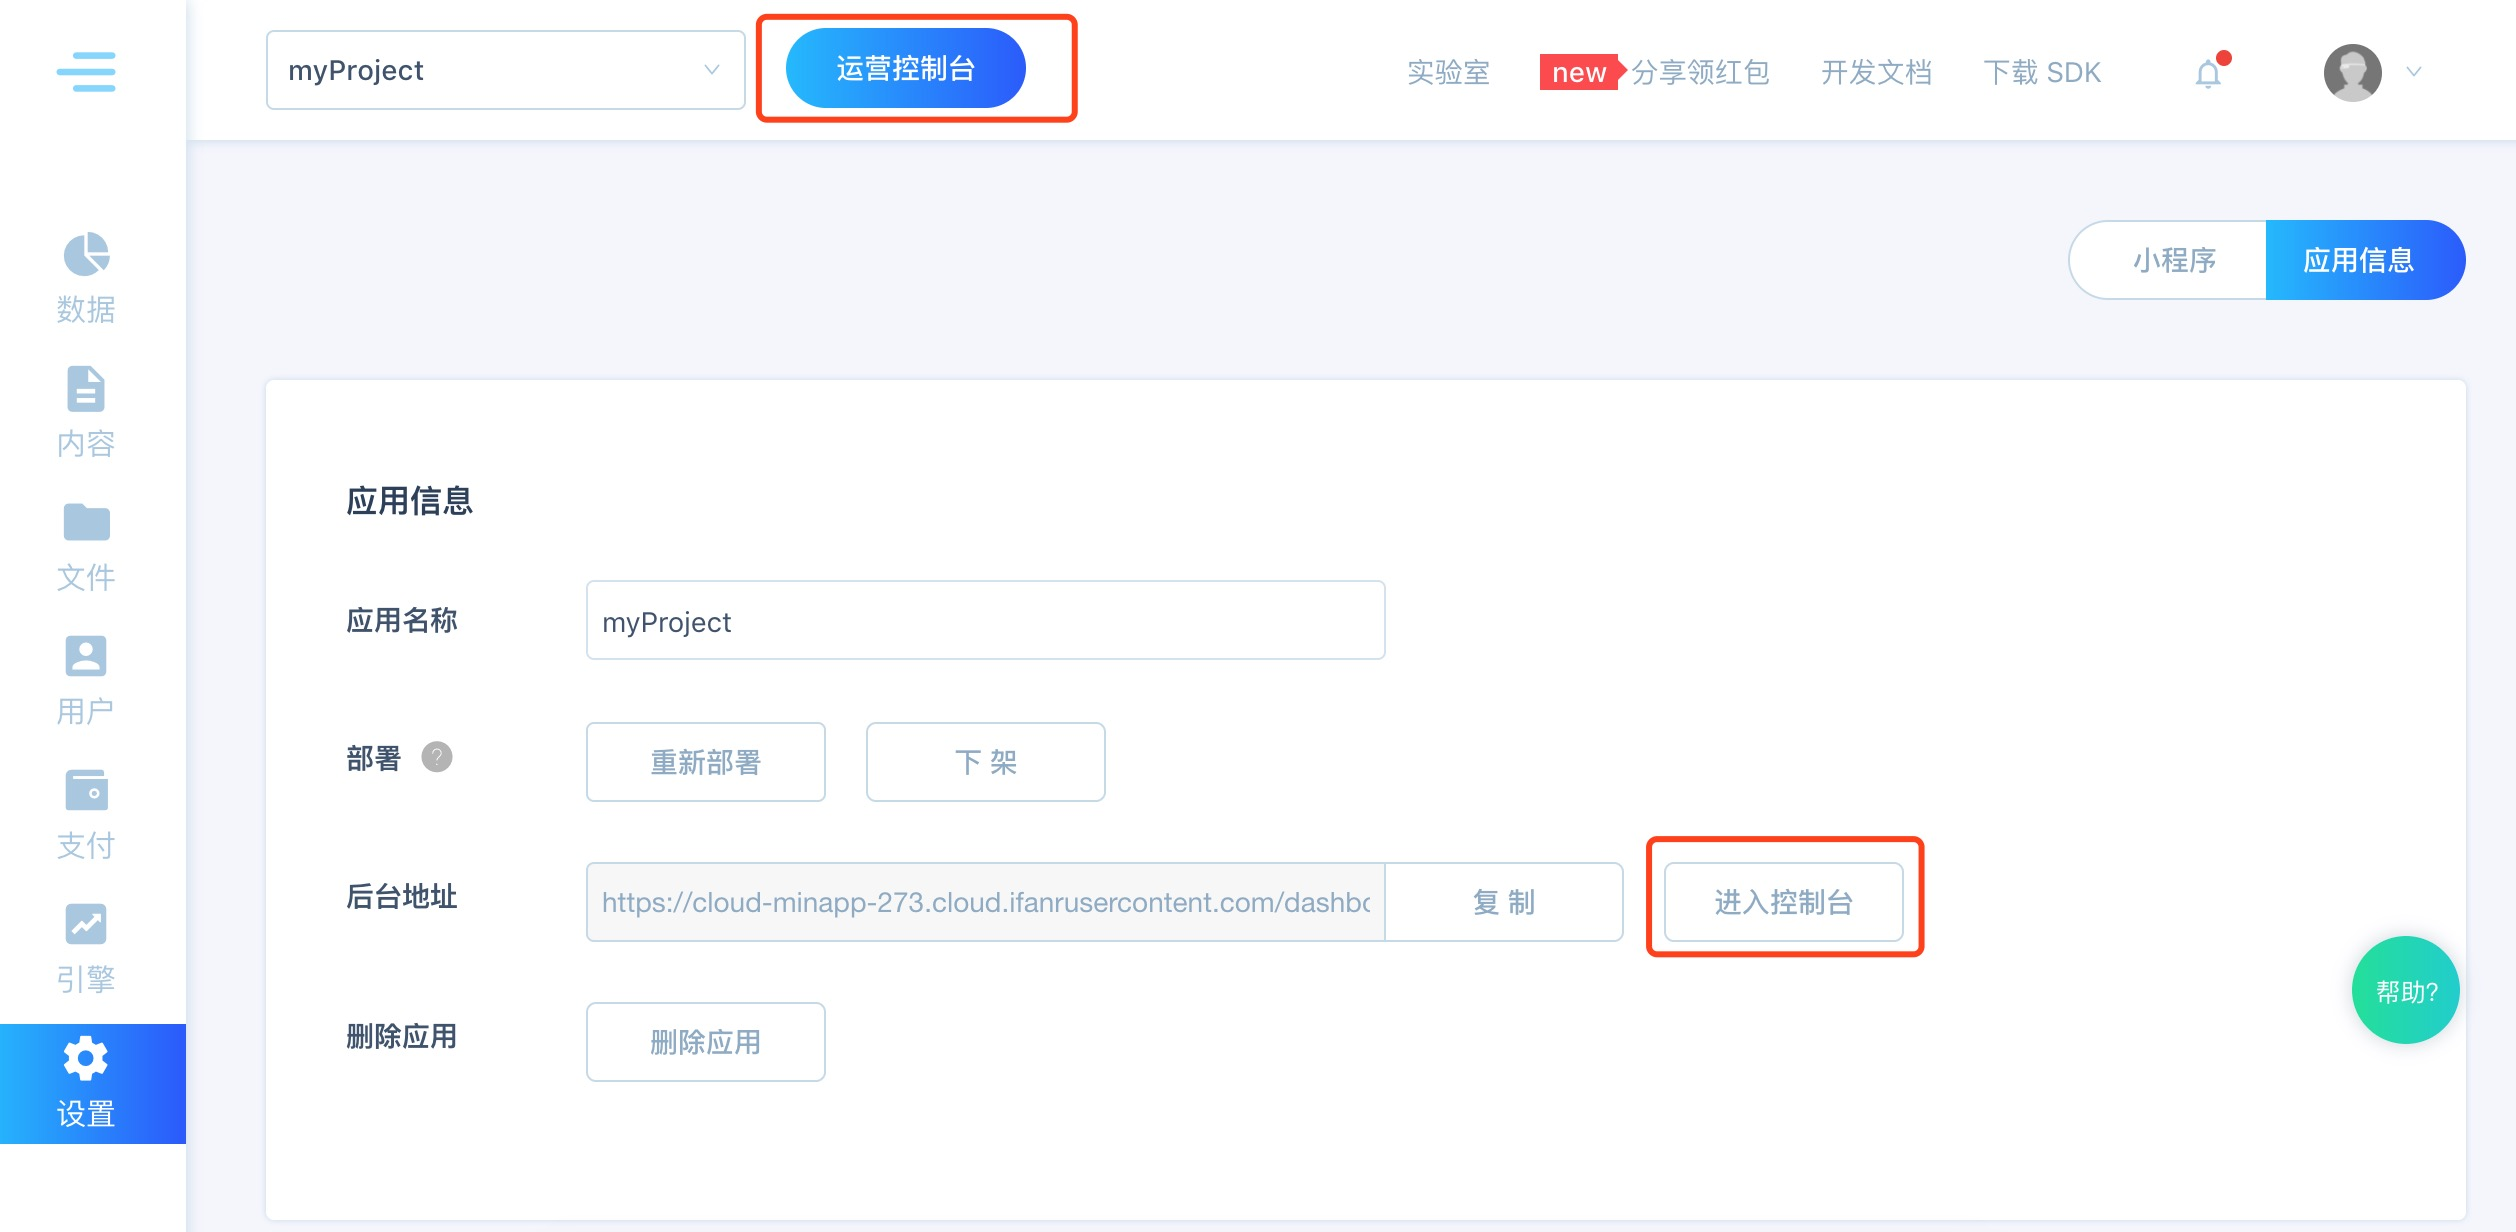
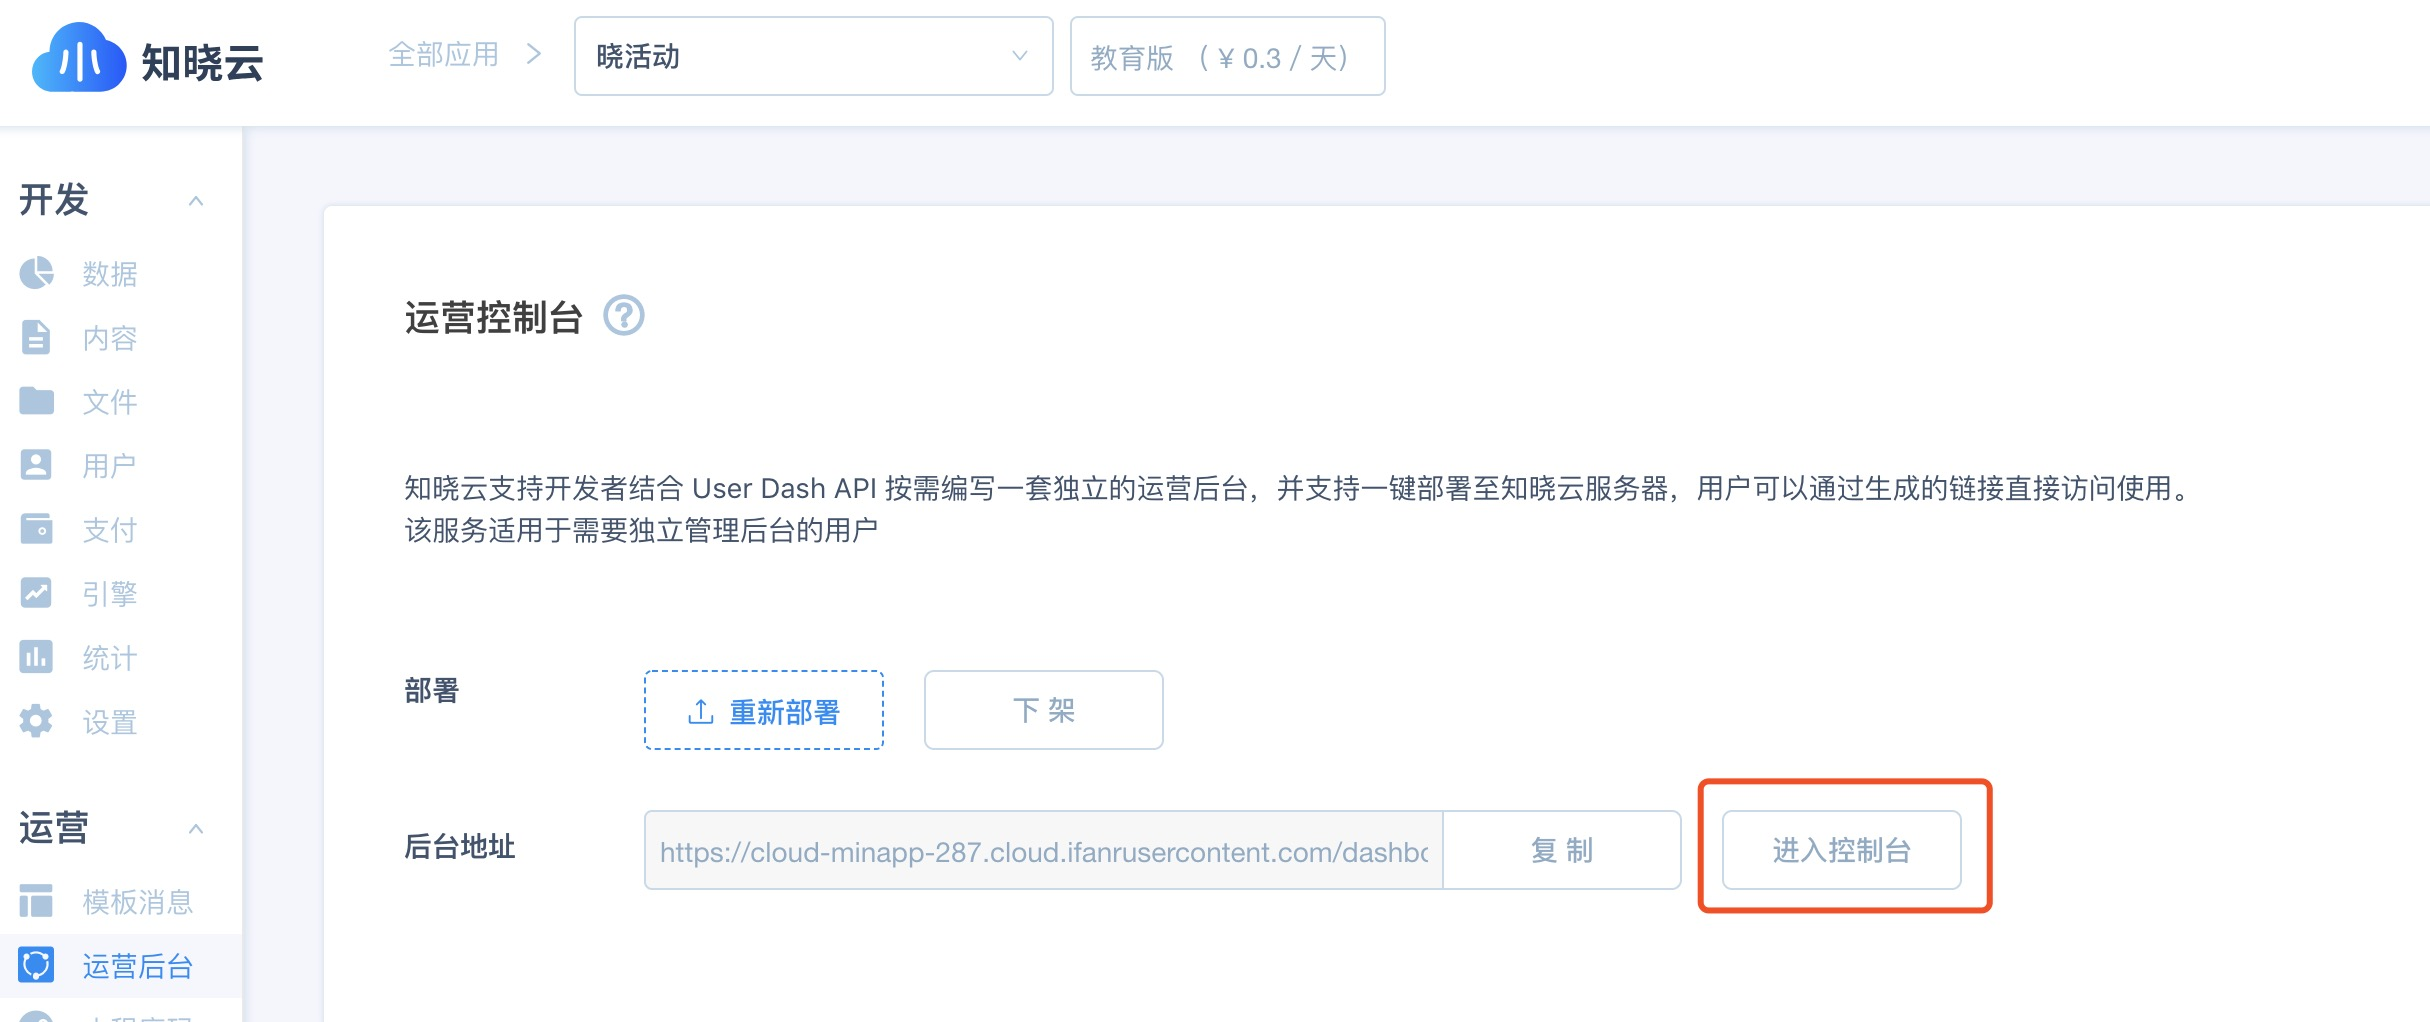
update user dash demo

diff --git a/user-dash-demo/README.md b/user-dash-demo/README.md
@@ -6,8 +6,8 @@
 
 ## 使用说明
 
-1. 登录知晓云控制台，进入设置 - 应用信息，点击一键部署后台
-![](../assets/settings-deploy.jpg)
+1. 登录知晓云控制台，进入 运营 - 运营控制台，点击一键部署后台
+![](../assets/deploy.jpg)
 
 2. 上传打包好 .zip 格式文件，点击确定
 
@@ -25,7 +25,7 @@
 这里提供了一个简单的示例，用于 Demo 演示。使用该文件前你需要做一些准备工作：
 
 1. 在知晓云后台完成授权小程序，获取 ClientID
-![](../assets/clientid.jpg)
+![](../assets/client-id.jpg)
 
 2. 新建一张数据表，点击使用模板，选择【地址表】，创建成功后记录下 tableID
 ![](../assets/create-table.jpg)
